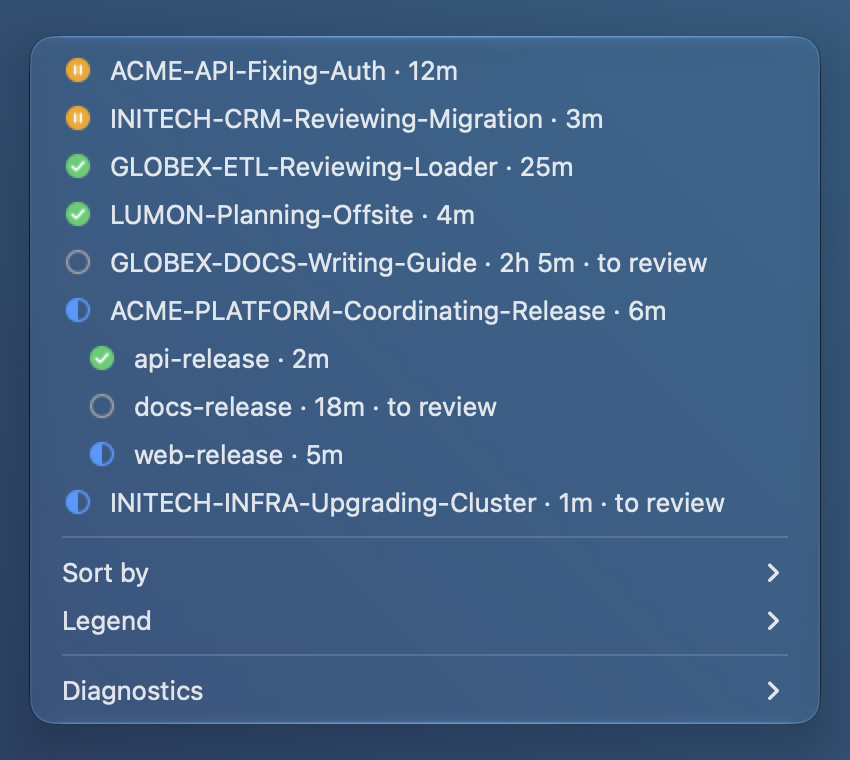
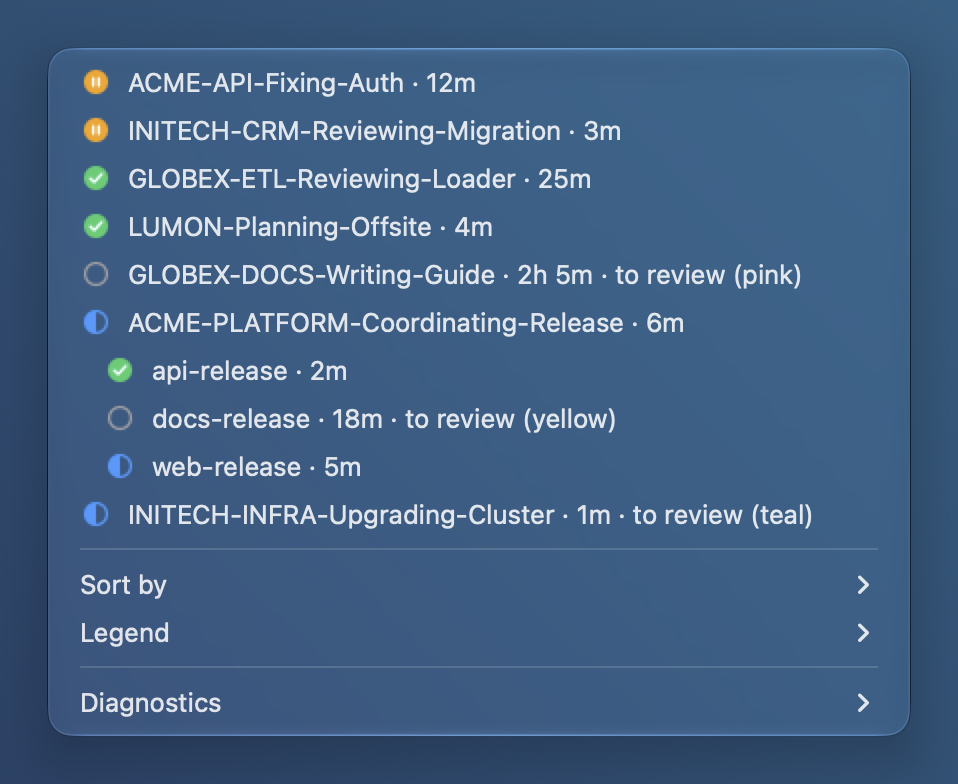
docs(herdr-jump): menu screenshot with the mark colors

diff --git a/site/pages/herdr-jump.html b/site/pages/herdr-jump.html
@@ -110,7 +110,7 @@
         <p>Click the icon for the same list as the picker, as a menu, with <b>Sort by</b>, a <b>Legend</b> and
           <b>Diagnostics</b>: the <code>herdr</code>, socket and terminal herdr-jump found, ready to copy.</p>
         <figure>
-          <img class="shot" src="img/herdr-jump/menu.png" width="850" height="760" loading="lazy" style="max-width: 426px"
+          <img class="shot" src="img/herdr-jump/menu.png" width="958" height="784" loading="lazy" style="max-width: 479px"
             alt="The menu bar drop-down with fictional agents: two blocked, two done, an idle one marked to review, then a working agent coordinating a release with its three sub-sessions indented under it, the idle one marked to review, then a working agent still marked to review; each with its status icon and wait, a marked one ending with to review and its bookmark color; then the Sort by, Legend and Diagnostics submenus">
         </figure>
       </section>

diff --git a/herdr-jump/README.md b/herdr-jump/README.md
@@ -113,7 +113,7 @@ Click it for the drop-down: the agents in the picker's order, each with its icon
 **Sort by** (FIFO, LIFO, by name; the checked one is in use), **Legend** and **Diagnostics** (see
 [Troubleshooting](#troubleshooting)).
 
-<img src="docs/menu.png" alt="The menu bar drop-down with fictional agents: two blocked, two done, an idle one marked to review, then a working agent coordinating a release with its three sub-sessions indented under it, the idle one marked to review, then a working agent still marked to review; each with its status icon and wait, a marked one ending with to review and its bookmark color; then the Sort by, Legend and Diagnostics submenus" width="426">
+<img src="docs/menu.png" alt="The menu bar drop-down with fictional agents: two blocked, two done, an idle one marked to review, then a working agent coordinating a release with its three sub-sessions indented under it, the idle one marked to review, then a working agent still marked to review; each with its status icon and wait, a marked one ending with to review and its bookmark color; then the Sort by, Legend and Diagnostics submenus" width="479">
 
 macOS adds the item left of the other menu bar icons, on the main display. The count can lag by
 up to `pollSeconds`.
